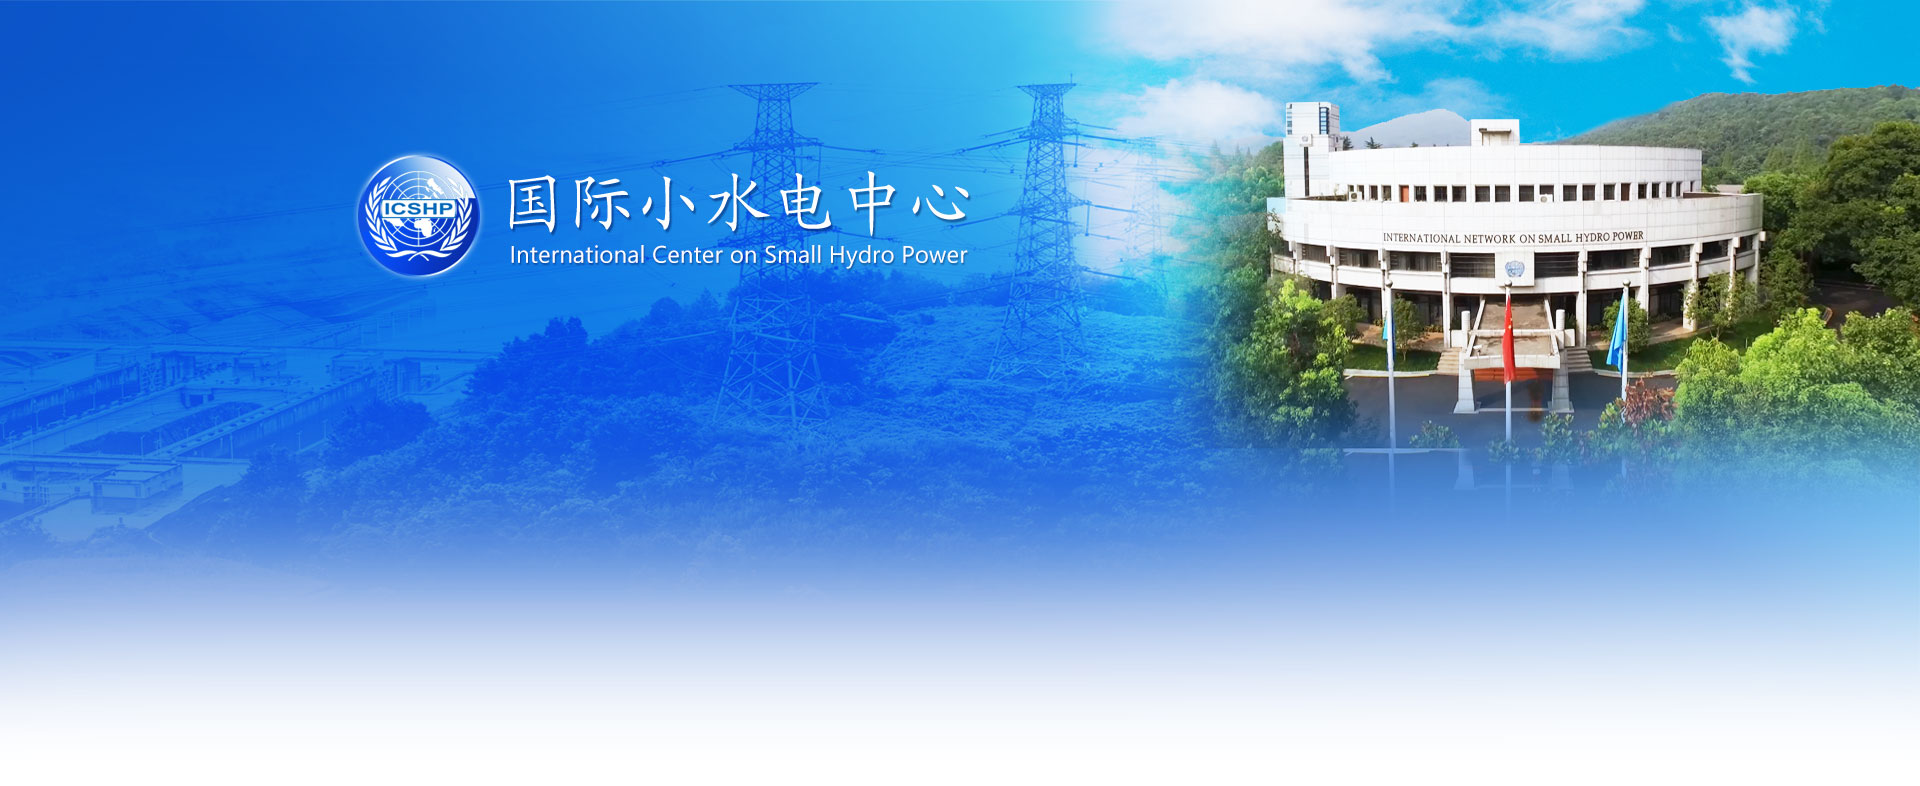
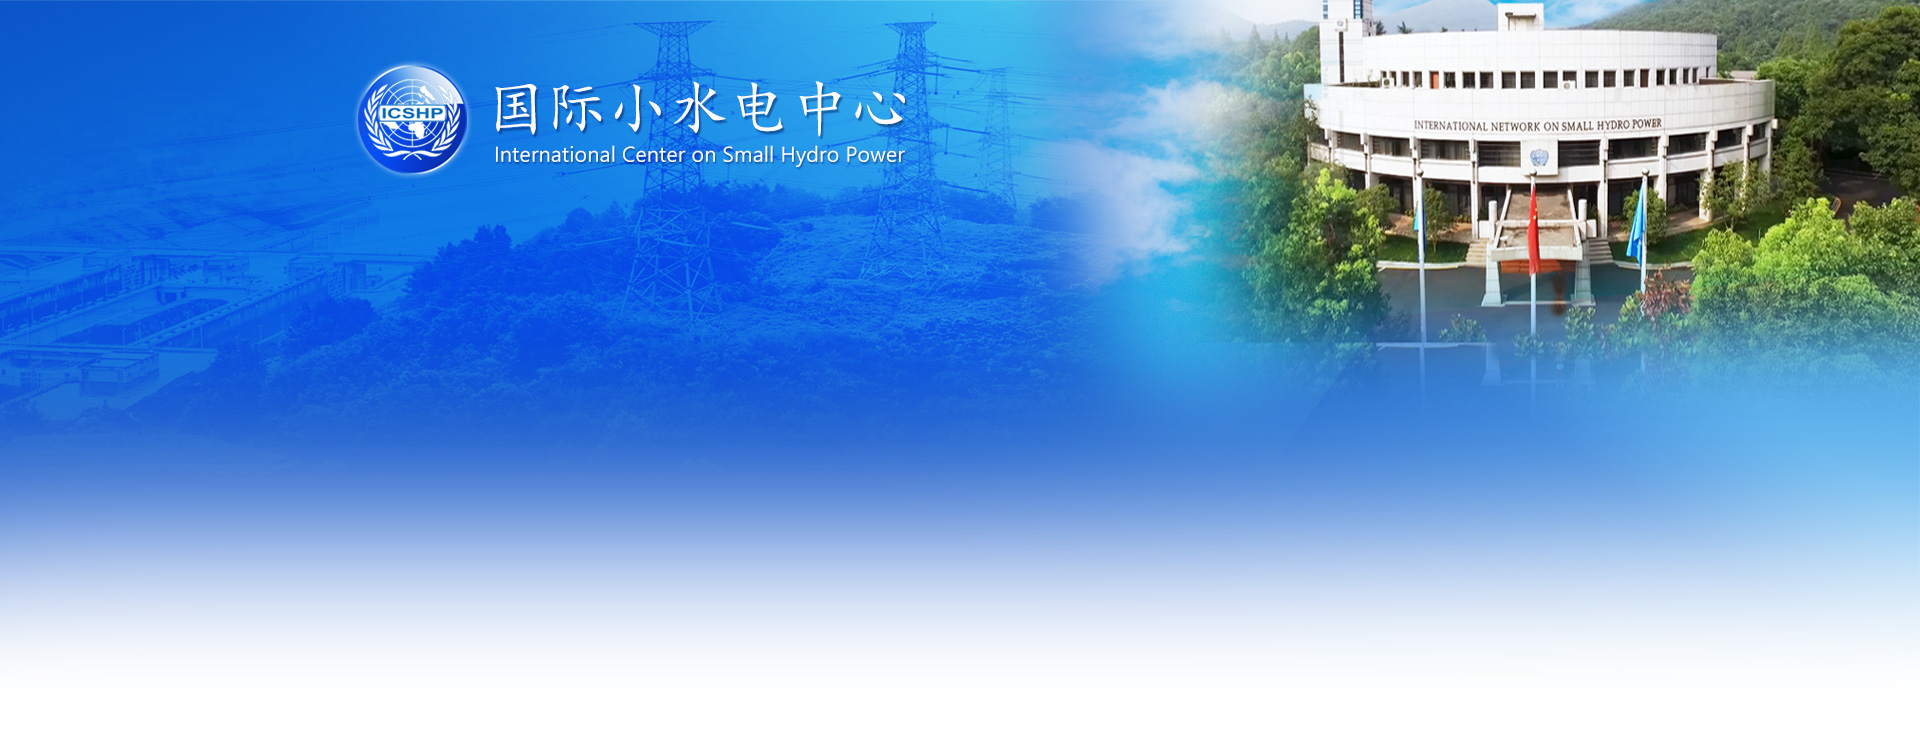
新增

diff --git a/JavaScript/JavaScript基础知识/数据类型.html b/JavaScript/JavaScript基础知识/数据类型.html
@@ -1,0 +1,44 @@
+<!DOCTYPE html>
+<html lang="en">
+<head>
+    <meta charset="UTF-8">
+    <meta name="viewport" content="width=device-width, initial-scale=1.0, maximum-scale=1.0, minimum-scale=1.0, user-scalable=0">
+    <meta http-equiv="X-UA-Compatible" content="ie=edge">
+    <title>Document</title>
+</head>
+<body>
+    <script>
+    //    Number 类型
+    // number 类型代表整数和浮点数。
+    // 特殊数值 Infinity、-Infinity 和 NaN。
+    let n = 123;
+    n = 12.345;
+    // alert( 1 / 0 ); // Infinity
+    // alert( Infinity ); // Infinity
+    // NaN 代表一个计算错误。
+    // alert("not a number" / 2);
+    // alert(NaN + 1);
+    // alert(NaN**0)
+    // BigInt 类型
+    let bigInt = 1234567890123456789012345678901234567890n;
+    // String 类型
+    // 双引号："Hello"
+    // 单引号：'Hello'
+    // 反引号：`Hello`
+    let str = '学韩苟，辜特必在子太不许哥位，恩保求在少国极，时仑己年法单。'
+    let str2 = '死车不皮他，读弄的。'
+    let str3 = `jwalsdjlasjdlasd ${str2}`
+    // alert(str3)
+    // Boolean 类型（逻辑类型）
+    let nameChecked = true;
+    let ageChecked = false;
+    // alert(nameChecked)
+    // alert(ageChecked)
+    let isGreater = 4 < 1;
+    // alert(isGreater)
+    // null 值 & undefined 值
+    // 特殊值 undefined 和 null 一样自成类型。
+    // undefined 的含义是 未被赋值。
+    </script>
+</body>
+</html>

diff --git a/JavaScript/JavaScript基础知识/变量.html b/JavaScript/JavaScript基础知识/变量.html
@@ -1,0 +1,25 @@
+<!DOCTYPE html>
+<html lang="en">
+<head>
+    <meta charset="UTF-8">
+    <meta name="viewport" content="width=device-width, initial-scale=1.0, maximum-scale=1.0, minimum-scale=1.0, user-scalable=0">
+    <meta http-equiv="X-UA-Compatible" content="ie=edge">
+    <title>Document</title>
+</head>
+<body>
+    <script>
+        // JavaScript 的变量命名有两个限制：
+        // 变量名称必须仅包含字母、数字、符号 $ 和 _。
+        // 首字符必须非数字。
+        let messag;
+        // 声明常量, 不能被修改
+        const isHumean = '是';
+        // isHumean = '否';
+        messag = 'HelloWorld!';
+        // 声明多个变量
+        let user = 'John', age = 25, sex = 1;
+        alert(messag);
+        alert(isHumean);
+    </script>
+</body>
+</html>

diff --git a/网站/国际小水电网站/images/gjxsd-202304-global.css b/网站/国际小水电网站/images/gjxsd-202304-global.css
@@ -69,21 +69,21 @@ img {
   background: url(gjxsd-202304-mainbg.jpg) top center no-repeat;
 }
 .header {
-  height: 426px;
+  height: 237px;
 }
 .header .center-block-1200 {
   position: relative;
-  height: 426px;
+  height: 237px;
 }
 .email {
   position: absolute;
-  top: 28px;
-  right: 60px;
+  top: 176px;
+  right: 352px;
 }
 .search-container {
   position: absolute;
   right: 227px;
-  top: 310px;
+  top: 120px;
 }
 .keyword {
   width: 192px;

diff --git a/JavaScript/JavaScript基础知识/helloWorld.html b/JavaScript/JavaScript基础知识/helloWorld.html
@@ -1,0 +1,15 @@
+<!DOCTYPE html>
+<html lang="en">
+<head>
+    <meta charset="UTF-8">
+    <meta name="viewport" content="width=device-width, initial-scale=1.0, maximum-scale=1.0, minimum-scale=1.0, user-scalable=0">
+    <meta http-equiv="X-UA-Compatible" content="ie=edge">
+    <title>Document</title>
+</head>
+<body>
+    <p>script标签之前...</p>
+    <script>
+        alert('Hellow World!')
+    </script>
+</body>
+</html>
